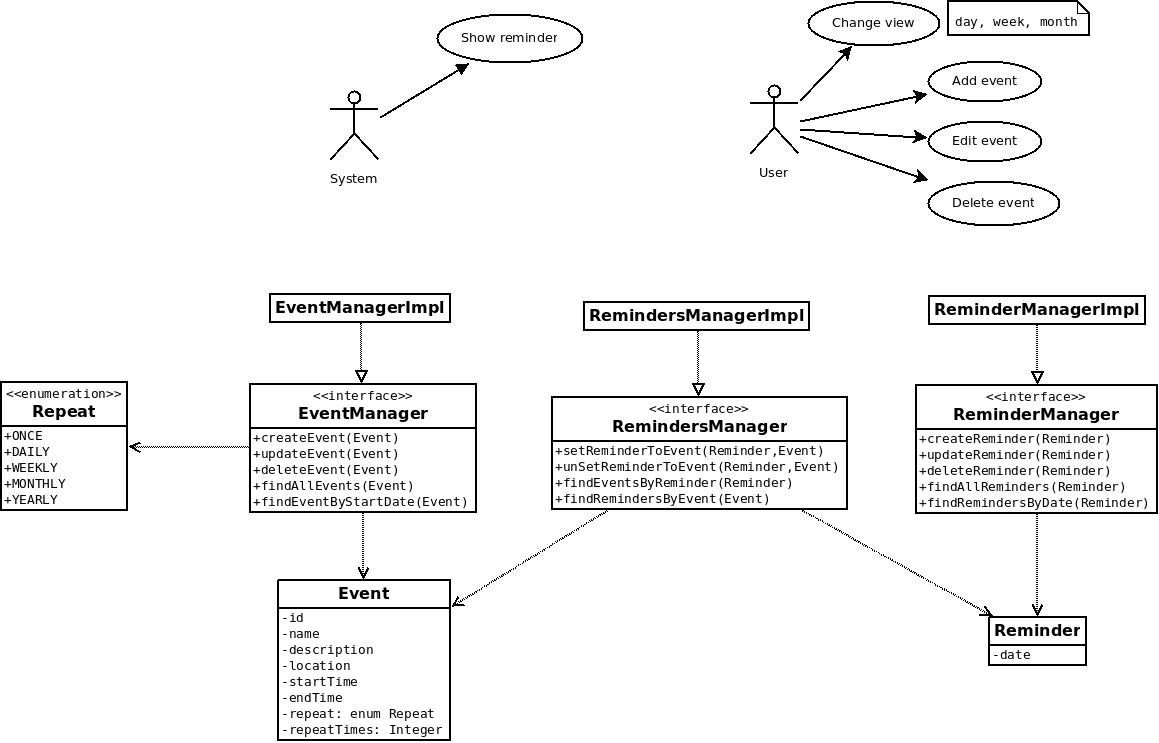
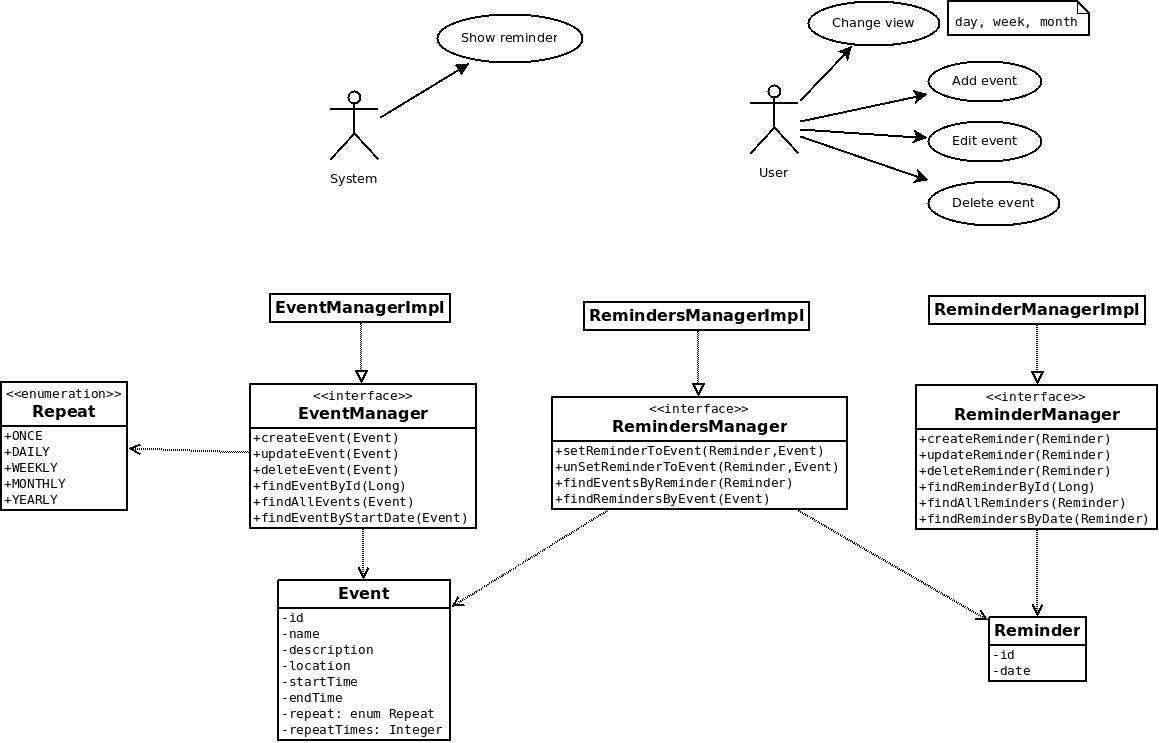
Event implementation + test

diff --git a/trunk/src/test/java/cz/muni/fi/pv168/calendar/EventManagerImplTest.java b/trunk/src/test/java/cz/muni/fi/pv168/calendar/EventManagerImplTest.java
@@ -1,0 +1,98 @@
+package cz.muni.fi.pv168.calendar;
+
+import org.junit.After;
+import org.junit.Before;
+import org.junit.Test;
+
+import static org.hamcrest.CoreMatchers.*;
+import static org.junit.Assert.assertEquals;
+import static org.junit.Assert.assertNotNull;
+import static org.junit.Assert.assertThat;
+
+/**
+ * Created by Pavol Loffay, p.loffay@gmail.com on 3/7/14.
+ */
+public class EventManagerImplTest {
+
+    private EventManagerImpl manager;
+
+    @Before
+    public void setUp() throws Exception {
+        manager = new EventManagerImpl();
+    }
+
+    @After
+    public void tearDown() throws Exception {
+
+    }
+
+    @Test
+    public void testCreateEvent() throws Exception {
+        Event event = newEvent("Kupit si auto","pekne");
+
+        manager.createEvent(event);
+
+        assertNotNull(event.getId());
+        assertThat(event.getId(), notNullValue());
+
+        assertEquals(event, manager.findEventById(event.getId()));
+        assertThat(event, equalTo(manager.findEventById(event.getId())));
+    }
+
+    @Test
+    public void testUpdateEvent() throws Exception {
+        Event event1 = newEvent("Kupit si auto", "pekne");
+        Event event2 = newEvent("Kupit si motorku", "skaredu");
+
+        manager.createEvent(event1);
+        manager.createEvent(event2);
+
+        Long id = event1.getId();
+        event1 = manager.findEventById(id);
+        event1.setTitle("Ponorka");
+        manager.updateEvent(event1);
+        assertEquals("ponorka", event1.getTitle());
+        assertEquals("ponorka", manager.findEventById(id).getTitle());
+        assertEquals("skaredu", manager.findEventById(id).getDescription());
+        assertThat("hocico", is(not(equalTo(manager.findEventById(id).getDescription()))));
+    }
+
+    @Test
+    public void testDeleteEvent() throws Exception {
+        Event event1 = newEvent("Kupit si auto", "pekne");
+
+        manager.createEvent(event1);
+        Long id = event1.getId();
+
+        /**
+         * Check if is event stored id DB
+         */
+        assertThat(id, is(notNullValue()));
+        assertThat(event1, is(equalTo(manager.findEventById(id))));
+        assertThat("Kupit si auto", is(equalTo(manager.findEventById(id).getTitle())));
+
+        /**
+         * Check delete
+         */
+        manager.deleteEvent(event1);
+        assertThat(manager.findEventById(id), is(nullValue()));
+    }
+
+    @Test
+    public void testFindAllEvents() throws Exception {
+
+    }
+
+    @Test
+    public void testFindEventByStartDate() throws Exception {
+
+    }
+
+    private Event newEvent(String title, String desc) {
+        Event event = new Event();
+        event.setTitle(title);
+        event.setDescription(desc);
+
+        return event;
+    }
+}

diff --git a/trunk/src/main/java/cz/muni/fi/pv168/calendar/Event.java b/trunk/src/main/java/cz/muni/fi/pv168/calendar/Event.java
@@ -1,7 +1,102 @@
 package cz.muni.fi.pv168.calendar;
 
+import java.util.Date;
+
 /**
  * Created by xloffay on 5.3.14.
  */
 public class Event {
+    private Long id;
+    private String title;
+    private String description;
+    private String location;
+    private Date startDate;
+    private Date endDate;
+
+    private Repeat repeat;
+    private Integer repeatTimes;
+    private User user;
+
+    public enum Repeat {
+      ONCE,
+      DAILY,
+      WEEKLY,
+      MONTHLY,
+      YEARLY
+    };
+
+    public Event() {
+    }
+
+    public String getTitle() {
+        return title;
+    }
+
+    public void setTitle(String title) {
+        this.title = title;
+    }
+
+    public Long getId() {
+        return id;
+    }
+
+    public void setId(Long id) {
+        this.id = id;
+    }
+
+    public String getDescription() {
+        return description;
+    }
+
+    public void setDescription(String description) {
+        this.description = description;
+    }
+
+    public String getLocation() {
+        return location;
+    }
+
+    public void setLocation(String location) {
+        this.location = location;
+    }
+
+    public Date getStartDate() {
+        return startDate;
+    }
+
+    public void setStartDate(Date startDate) {
+        this.startDate = startDate;
+    }
+
+    public Date getEndDate() {
+        return endDate;
+    }
+
+    public void setEndDate(Date endDate) {
+        this.endDate = endDate;
+    }
+
+    public Repeat getRepeat() {
+        return repeat;
+    }
+
+    public void setRepeat(Repeat repeat) {
+        this.repeat = repeat;
+    }
+
+    public Integer getRepeatTimes() {
+        return repeatTimes;
+    }
+
+    public void setRepeatTimes(Integer repeatTimes) {
+        this.repeatTimes = repeatTimes;
+    }
+
+    public User getUser() {
+        return user;
+    }
+
+    public void setUser(User user) {
+        this.user = user;
+    }
 }

diff --git a/trunk/src/main/java/cz/muni/fi/pv168/calendar/ReminderManagerImpl.java b/trunk/src/main/java/cz/muni/fi/pv168/calendar/ReminderManagerImpl.java
@@ -4,40 +4,36 @@ import java.util.Date;
 import java.util.List;
 
 /**
- * Created by xloffay on 5.3.14.
+ * Created by Pavol Loffay, p.loffay@gmail.com on 3/7/14.
  */
-public class EventManagerImpl implements EventManager {
-
-    public EventManagerImpl() {
-    }
-
+public class ReminderManagerImpl implements ReminderManager {
     @Override
-    public void createEvent(Event event) {
+    public void createReminder(Reminder reminder) {
         throw new UnsupportedOperationException("Not supported yet.");
     }
 
     @Override
-    public void updateEvent(Event event) {
+    public void updateReminder(Reminder reminder) {
         throw new UnsupportedOperationException("Not supported yet.");
     }
 
     @Override
-    public void deleteEvent(Event event) {
+    public void deleteReminder(Reminder reminder) {
         throw new UnsupportedOperationException("Not supported yet.");
     }
 
     @Override
-    public Event findEventById(Long id) {
+    public Reminder findReminderById(Long id) {
         throw new UnsupportedOperationException("Not supported yet.");
     }
 
     @Override
-    public List<Event> findAllEvents() {
+    public List<Reminder> findAllReminders() {
         throw new UnsupportedOperationException("Not supported yet.");
     }
 
     @Override
-    public List<Event> findEventByStartDate(Date date) {
+    public List<Reminder> findRemindersByDate(Date date) {
         throw new UnsupportedOperationException("Not supported yet.");
     }
 }

diff --git a/trunk/src/main/java/cz/muni/fi/pv168/calendar/RemindersManagerImpl.java b/trunk/src/main/java/cz/muni/fi/pv168/calendar/RemindersManagerImpl.java
@@ -1,0 +1,28 @@
+package cz.muni.fi.pv168.calendar;
+
+import java.util.List;
+
+/**
+ * Created by Pavol Loffay, p.loffay@gmail.com on 3/7/14.
+ */
+public class RemindersManagerImpl implements RemindersManager {
+    @Override
+    public void setReminderToEvent(Reminder reminder, Event event) {
+        throw new UnsupportedOperationException("Not supported yet.");
+    }
+
+    @Override
+    public void unSetReminderToEvent(Reminder reminder, Event event) {
+        throw new UnsupportedOperationException("Not supported yet.");
+    }
+
+    @Override
+    public List<Event> findEventsByReminder(Reminder reminder) {
+        throw new UnsupportedOperationException("Not supported yet.");
+    }
+
+    @Override
+    public List<Reminder> findRemindersByEvent(Event event) {
+        throw new UnsupportedOperationException("Not supported yet.");
+    }
+}

diff --git a/trunk/src/main/java/cz/muni/fi/pv168/calendar/ReminderManager.java b/trunk/src/main/java/cz/muni/fi/pv168/calendar/ReminderManager.java
@@ -1,0 +1,18 @@
+package cz.muni.fi.pv168.calendar;
+
+import java.util.Date;
+import java.util.List;
+
+/**
+ * Created by Pavol Loffay, p.loffay@gmail.com on 3/7/14.
+ */
+public interface ReminderManager {
+
+    public void createReminder(Reminder reminder);
+    public void updateReminder(Reminder reminder);
+    public void deleteReminder(Reminder reminder);
+
+    public Reminder findReminderById(Long id);
+    public List<Reminder> findAllReminders();
+    public List<Reminder> findRemindersByDate(Date date);
+}

diff --git a/trunk/src/main/java/cz/muni/fi/pv168/calendar/Reminder.java b/trunk/src/main/java/cz/muni/fi/pv168/calendar/Reminder.java
@@ -1,0 +1,28 @@
+package cz.muni.fi.pv168.calendar;
+
+import java.util.Date;
+
+/**
+ * Created by Pavol Loffay, p.loffay@gmail.com on 3/7/14.
+ */
+public class Reminder {
+
+    private Long id;
+    private Date date;
+
+    public Reminder() {
+    }
+
+    public Reminder(Date date, Long id) {
+        this.date = date;
+        this.id = id;
+    }
+
+    public Date getDate() {
+        return date;
+    }
+
+    public void setDate(Date date) {
+        this.date = date;
+    }
+}

diff --git a/trunk/src/main/java/cz/muni/fi/pv168/calendar/RemindersManager.java b/trunk/src/main/java/cz/muni/fi/pv168/calendar/RemindersManager.java
@@ -1,0 +1,16 @@
+package cz.muni.fi.pv168.calendar;
+
+import java.util.List;
+
+/**
+ * Created by Pavol Loffay, p.loffay@gmail.com on 3/7/14.
+ */
+public interface RemindersManager {
+
+    public void setReminderToEvent(Reminder reminder, Event event);
+    public void unSetReminderToEvent(Reminder reminder, Event event);
+
+    public List<Event> findEventsByReminder(Reminder reminder);
+    public List<Reminder> findRemindersByEvent(Event event);
+
+}

diff --git a/trunk/src/main/java/cz/muni/fi/pv168/calendar/EventManager.java b/trunk/src/main/java/cz/muni/fi/pv168/calendar/EventManager.java
@@ -1,9 +1,20 @@
 package cz.muni.fi.pv168.calendar;
 
+import java.util.Date;
+import java.util.List;
+
 /**
  * Created by xloffay on 5.3.14.
  */
 public interface EventManager {
+
+    public void createEvent(Event event);
+    public void updateEvent(Event event);
+    public void deleteEvent(Event event);
+
+    public Event findEventById(Long id);
+    public List<Event> findAllEvents();
+    public List<Event> findEventByStartDate(Date date);
 }
 
 

diff --git a/trunk/src/main/java/cz/muni/fi/pv168/calendar/User.java b/trunk/src/main/java/cz/muni/fi/pv168/calendar/User.java
@@ -1,0 +1,7 @@
+package cz.muni.fi.pv168.calendar;
+
+/**
+ * Created by pavol on 3/7/14.
+ */
+public class User {
+}
